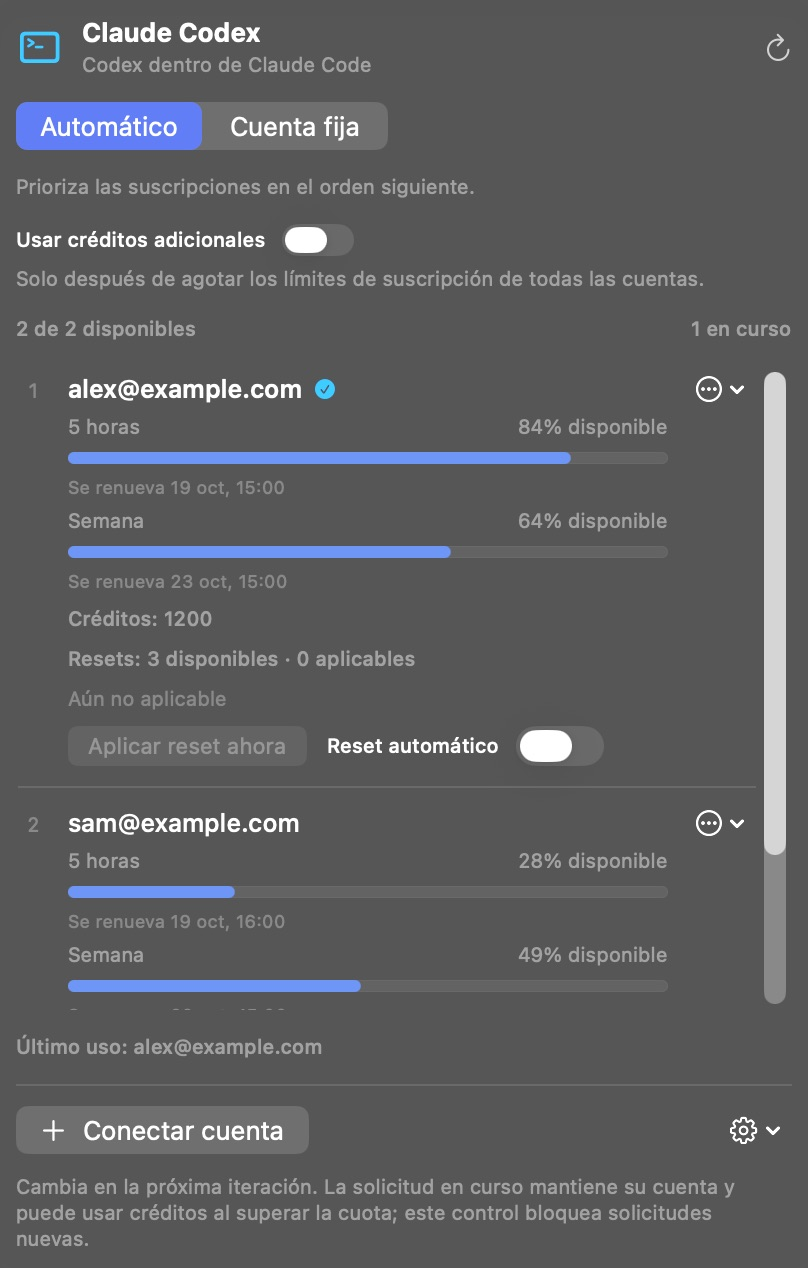
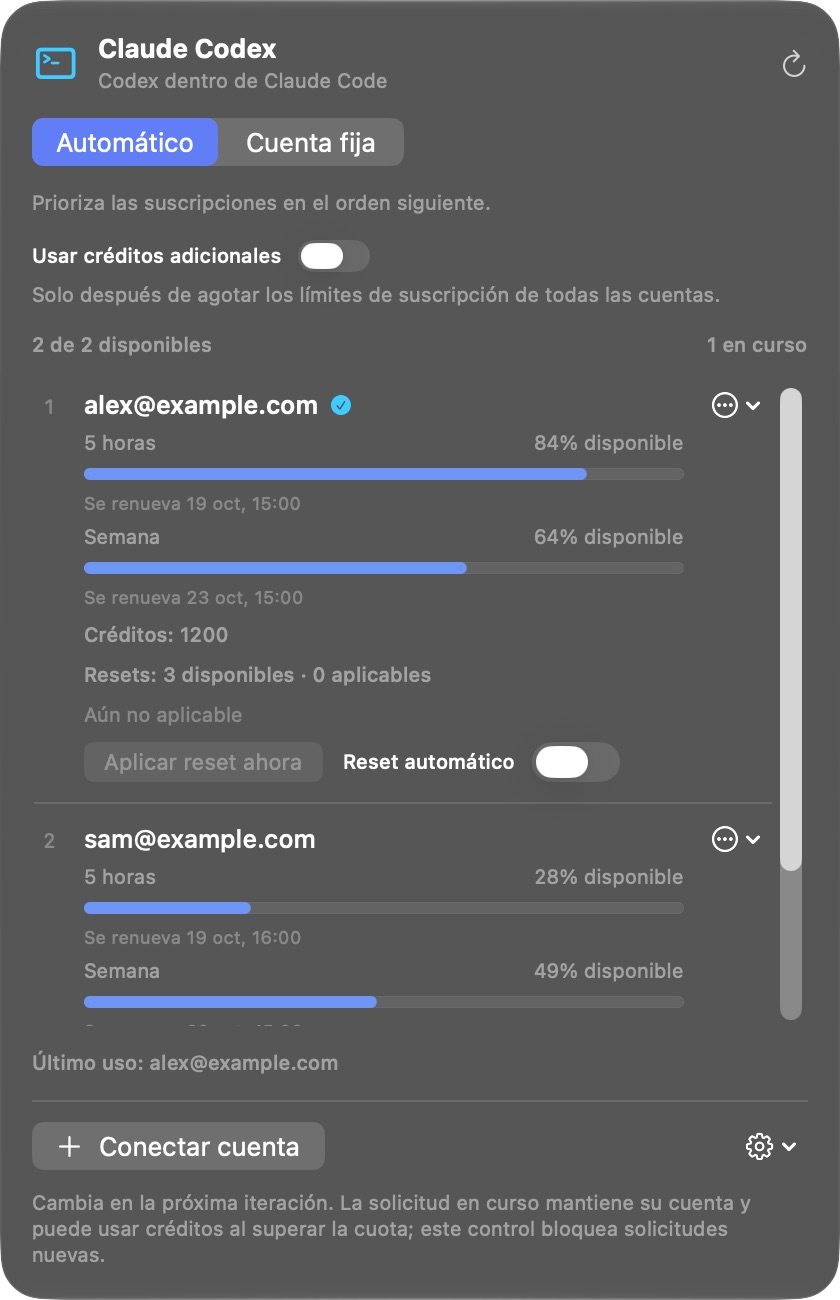
Preserve native rounded corners in README screenshots

diff --git a/Scripts/crop-readme-screenshots.py b/Scripts/crop-readme-screenshots.py
@@ -1,40 +1,79 @@
 #!/usr/bin/env python3
-"""Crop the outside frame from real window screenshots without redrawing pixels."""
+"""Make only the exterior of native rounded corners transparent in real captures."""
 
 import argparse
+from collections import deque
 from pathlib import Path
 
 from PIL import Image
 
 LANGUAGES = ("en", "pt", "es", "fr", "de", "it")
+CORNER_REGION = 96
+
+
+def remove_corner_matte(original):
+    """Follow the captured contour, preserving the full frame and every RGB pixel."""
+    result = original.convert("RGBA")
+    width, height = result.size
+    pixels = result.load()
+    corners = ((0, 0), (width - 1, 0), (0, height - 1), (width - 1, height - 1))
+    pending = deque(corners)
+    visited = set()
+    changed = 0
+    while pending:
+        x, y = pending.popleft()
+        if (x, y) in visited or not (0 <= x < width and 0 <= y < height):
+            continue
+        visited.add((x, y))
+        if not ((x < CORNER_REGION or x >= width - CORNER_REGION)
+                and (y < CORNER_REGION or y >= height - CORNER_REGION)):
+            continue
+        red, green, blue, _ = pixels[x, y]
+        if min(red, green, blue) < 150 or max(red, green, blue) - min(red, green, blue) > 12:
+            continue
+        value = (red + green + blue) / 3
+        alpha = 0 if value >= 245 else round(255 * (245 - value) / 95)
+        pixels[x, y] = (red, green, blue, max(0, min(255, alpha)))
+        changed += alpha < 255
+        pending.extend(((x - 1, y), (x + 1, y), (x, y - 1), (x, y + 1)))
+
+    if result.convert("RGB").tobytes() != original.convert("RGB").tobytes():
+        raise RuntimeError("The screenshot colors were changed.")
+    if not all(pixels[point][3] == 0 for point in corners):
+        raise ValueError("Unexpected corner background; inspect the screenshot before editing.")
+    alpha = result.getchannel("A")
+    if (alpha.crop((CORNER_REGION, 0, width - CORNER_REGION, height)).getextrema() != (255, 255)
+            or alpha.crop((0, CORNER_REGION, width, height - CORNER_REGION)).getextrema() != (255, 255)):
+        raise RuntimeError("Transparency reached the panel interior.")
+    if not 0 < changed < 6000:
+        raise ValueError("Unexpected corner area; inspect the screenshot before editing.")
+    return result, changed
 
 
 def main():
     parser = argparse.ArgumentParser(description=__doc__)
     parser.add_argument("source", type=Path, help="Folder with the six original panel-<language>.jpg screenshots")
     parser.add_argument("--output", type=Path, default=Path("docs/assets"))
-    parser.add_argument("--inset", type=int, default=16, help="Pixels removed from each edge of the 2× capture")
     arguments = parser.parse_args()
-    if not 0 <= arguments.inset <= 24:
-        parser.error("Use an inset between 0 and 24 pixels to preserve the panel content.")
 
     captures = []
     for language in LANGUAGES:
         with Image.open(arguments.source / f"panel-{language}.jpg") as image:
             if image.size != (840, 1300):
-                parser.error(f"Unexpected {language} capture size: {image.size}; inspect before cropping.")
+                parser.error(f"Unexpected {language} capture size: {image.size}; inspect before editing.")
             captures.append((language, image.convert("RGB")))
 
     arguments.output.mkdir(parents=True, exist_ok=True)
     for language, original in captures:
-        inset = arguments.inset
-        cropped = original.crop((inset, inset, original.width - inset, original.height - inset))
+        rounded, changed = remove_corner_matte(original)
         destination = arguments.output / f"panel-{language}.png"
-        cropped.save(destination, optimize=True)
+        rounded.save(destination, optimize=True)
         with Image.open(destination) as saved:
-            if saved.tobytes() != cropped.tobytes():
+            if saved.size != original.size or saved.tobytes() != rounded.tobytes():
                 raise RuntimeError(f"Pixel verification failed: {destination}")
-        print(f"{destination}: {original.width}×{original.height} → {cropped.width}×{cropped.height}; original pixels preserved")
+            if saved.info.get("icc_profile") != original.info.get("icc_profile"):
+                raise RuntimeError(f"Color profile was not preserved: {destination}")
+        print(f"{destination}: {original.width}×{original.height} preserved; only {changed} exterior corner alpha values changed")
 
 
 if __name__ == "__main__":

diff --git a/CONTRIBUTING.md b/CONTRIBUTING.md
@@ -36,13 +36,13 @@ Take a real screenshot of the app’s window, using the operating system’s win
 
 The fixture accepts account reads and refreshes and rejects all account-changing requests. The app’s staging mode skips the production service and updater and disables real installation setup. No account files or credentials are copied. The script records its process IDs and stops only its own processes when the documentation app closes. Do not connect a real account or enable login startup in this documentation instance.
 
-With all six original captures in one folder, crop their outer frame using Python and Pillow:
+With all six original captures in one folder, remove only the exterior corner background using Python and Pillow:
 
 ```sh
 python3 Scripts/crop-readme-screenshots.py /path/to/original-captures
 ```
 
-The crop removes 16 pixels from each edge of the 840 × 1300 window captures, preserving every remaining pixel and saving 808 × 1268 PNGs in `docs/assets/`. The script checks the input sizes and verifies the output pixels. Check each screenshot at its README display size, including long translations and both GitHub page backgrounds. Confirm that the accounts are synthetic and that images, captions and relative links resolve in every language. The fixture deliberately uses fixed illustrative dates and amounts.
+The script preserves the full 840 × 1300 window capture and every RGB pixel. It follows the neutral exterior background connected to the four corners and changes only its alpha channel, retaining the native rounded frame. No rectangular inset, resizing, color adjustment or redrawing is applied. The PNGs in `docs/assets/` keep an opaque interior and transparent exterior corners; these properties are verified when saving. Check each screenshot at its README display size, including long translations and both GitHub page backgrounds. Confirm that the accounts are synthetic and that images, captions and relative links resolve in every language. The fixture deliberately uses fixed illustrative dates and amounts.
 
 ## Keep changes focused
 

diff --git a/docs/readme/README_fr.md b/docs/readme/README_fr.md
@@ -19,7 +19,7 @@ macOS 26 ou ultérieur · Apple silicon et Intel · Gratuit et open source
 Nécessite un compte ayant accès à Codex et l’application officielle Claude installée. L’utilisation des modèles est soumise aux limites et à la facturation de votre compte.
 
 <p align="center">
-  <img src="../assets/panel-fr.png" width="404" alt="Panneau Claude Codex en mode automatique avec deux comptes fictifs, leurs quotas, crédits et commandes de réinitialisation">
+  <img src="../assets/panel-fr.png" width="420" alt="Panneau Claude Codex en mode automatique avec deux comptes fictifs, leurs quotas, crédits et commandes de réinitialisation">
   <br><sub>Capture d’écran de l’application en cours d’exécution avec des comptes et données d’utilisation fictifs.</sub>
 </p>
 

diff --git a/docs/readme/README_es.md b/docs/readme/README_es.md
@@ -19,7 +19,7 @@ macOS 26 o posterior · Apple silicon e Intel · Gratis y de código abierto
 Requiere una cuenta con acceso a Codex y la app oficial de Claude instalada. El uso de los modelos está sujeto a los límites y la facturación de tu cuenta.
 
 <p align="center">
-  <img src="../assets/panel-es.png" width="404" alt="Panel de Claude Codex en modo automático con dos cuentas de ejemplo, límites de suscripción, créditos y controles de reset">
+  <img src="../assets/panel-es.png" width="420" alt="Panel de Claude Codex en modo automático con dos cuentas de ejemplo, límites de suscripción, créditos y controles de reset">
   <br><sub>Captura de pantalla de la app en ejecución con cuentas y datos de uso sintéticos.</sub>
 </p>
 

diff --git a/docs/readme/README_it.md b/docs/readme/README_it.md
@@ -19,7 +19,7 @@ macOS 26 o successivo · Apple silicon e Intel · Gratuito e open source
 Richiede un account con accesso a Codex e l’app ufficiale di Claude installata. L’uso dei modelli segue i limiti e le regole di fatturazione del tuo account.
 
 <p align="center">
-  <img src="../assets/panel-it.png" width="404" alt="Pannello di Claude Codex in modalità automatica con due account di esempio, quote degli abbonamenti, crediti e comandi di reset">
+  <img src="../assets/panel-it.png" width="420" alt="Pannello di Claude Codex in modalità automatica con due account di esempio, quote degli abbonamenti, crediti e comandi di reset">
   <br><sub>Screenshot dell’app in esecuzione con account e dati di utilizzo fittizi.</sub>
 </p>
 

diff --git a/docs/readme/README_de.md b/docs/readme/README_de.md
@@ -19,7 +19,7 @@ macOS 26 oder neuer · Apple silicon und Intel · Kostenlos und Open Source
 Erfordert ein Konto mit Codex-Zugang und die installierte offizielle Claude-App. Für die Modellnutzung gelten die Limits und Abrechnungsregeln Ihres Kontos.
 
 <p align="center">
-  <img src="../assets/panel-de.png" width="404" alt="Claude-Codex-Panel im automatischen Modus mit zwei Beispielkonten, Abonnementlimits, Credits und Optionen zum Zurücksetzen">
+  <img src="../assets/panel-de.png" width="420" alt="Claude-Codex-Panel im automatischen Modus mit zwei Beispielkonten, Abonnementlimits, Credits und Optionen zum Zurücksetzen">
   <br><sub>Screenshot der laufenden App mit fiktiven Konten und Nutzungsdaten.</sub>
 </p>
 

diff --git a/docs/readme/README_pt-BR.md b/docs/readme/README_pt-BR.md
@@ -19,7 +19,7 @@ macOS 26 ou posterior · Apple silicon e Intel · Gratuito e de código aberto
 Requer uma conta com acesso ao Codex e o app oficial do Claude instalado. O uso dos modelos segue os limites e a cobrança da sua conta.
 
 <p align="center">
-  <img src="../assets/panel-pt.png" width="404" alt="Painel do Claude Codex no modo automático com duas contas de exemplo, cotas de assinatura, créditos e controles de reset">
+  <img src="../assets/panel-pt.png" width="420" alt="Painel do Claude Codex no modo automático com duas contas de exemplo, cotas de assinatura, créditos e controles de reset">
   <br><sub>Captura de tela do app em execução, com contas e dados de uso sintéticos.</sub>
 </p>
 

diff --git a/README.md b/README.md
@@ -19,7 +19,7 @@ macOS 26 or later · Apple silicon and Intel · Free and open source
 Requires an account with Codex access and the official Claude app installed. Model usage follows your account’s limits and billing.
 
 <p align="center">
-  <img src="docs/assets/panel-en.png" width="404" alt="Claude Codex menu-bar panel in automatic mode with two example accounts, subscription limits, credits and reset controls">
+  <img src="docs/assets/panel-en.png" width="420" alt="Claude Codex menu-bar panel in automatic mode with two example accounts, subscription limits, credits and reset controls">
   <br><sub>Screenshot of the running app with synthetic accounts and usage data.</sub>
 </p>
 
